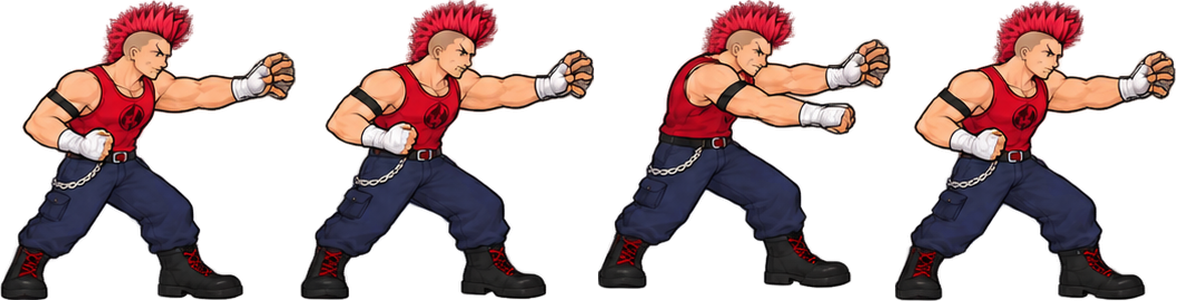
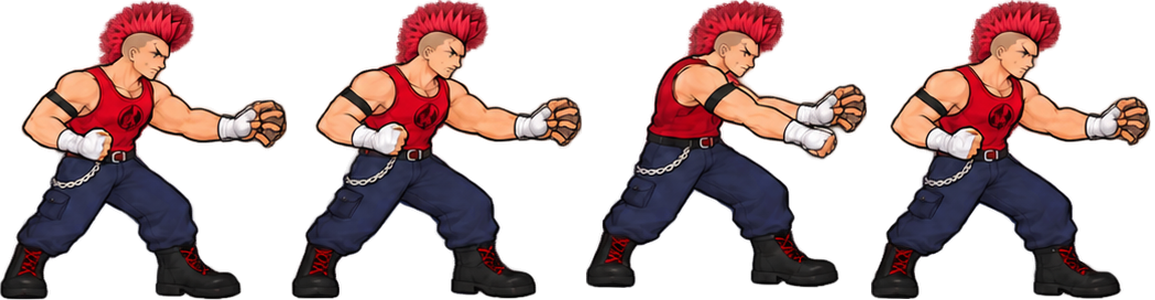
fix: keep front restraint hands off Aoi face

diff --git a/character-lab.html b/character-lab.html
@@ -1,4 +1,4 @@
-<!doctype html><html lang="ja"><meta charset="utf-8"><meta name="viewport" content="width=device-width,initial-scale=1"><title>ストリートエンジェル — キャラクター比較</title><style>body{background:#11101b;color:#eee;font:16px system-ui;margin:24px auto;max-width:1100px;padding:0 16px}h1{font-size:26px}p{color:#bcb8ca}button,select{font:inherit;background:#292537;color:#fff;border:1px solid #73677e;padding:12px;margin:4px;border-radius:6px}canvas{width:100%;background:#201c2d;border:1px solid #63576f}a{color:#ffcb64}</style><h1>葵と黒蛇会</h1><p>同じ足元の線で、体格と構えを比較。向きや動きを切り替えられます。</p><label>動き <select id="pose"><option value="idle">構え</option><option value="walk">歩き</option><option value="attack">攻撃</option><option value="restrain">拘束</option><option value="escape">拘束から脱出</option><option value="assist">追加拘束・腹パン4回</option><option value="hurt">被弾</option><option value="down">倒れる</option><option value="getup">起き上がる</option><option value="rush">ボス：突進</option><option value="slam">ボス：叩きつけ</option></select></label><button id="flip">向きを変える</button><button id="play">停止</button><button id="step">少し進める</button><canvas id="lineup" width="1100" height="470" aria-label="キャラクター5人の比較"></canvas><p>葵：軽快な連打 ／ チンピラ：前のめりの拳 ／ ヤンキー：間合いの長い蹴り ／ 大男：重い一撃 ／ 剛田：長ラン姿の突進・叩きつけ</p><a href="street-angel.html">ゲームへ</a><script src="assets/characters/aoi_assist_v1.js"></script><script src="assets/characters/thug_assist_v1.js"></script><script src="assets/characters/yankee_assist_v1.js"></script><script src="assets/characters/brute_assist_v1.js"></script><script src="assets/characters/aoi_restraint_v3.js"></script><script src="assets/characters/thug_restraint_v2.js"></script><script src="assets/characters/yankee_restraint_v2.js?v=2"></script><script src="assets/characters/brute_restraint_v2.js"></script><script src="visual-style.js?v=2"></script><script src="assets/aoi_hit.js"></script><script src="character-motion.js?v=9"></script><script src="assets/br_walk.js?v=2"></script><script src="assets/br_cmb.js?v=2"></script><script src="assets/thug_walk.js"></script><script src="assets/yk_walk.js?v=2"></script><script src="assets/aoi_walk4.js"></script><script src="assets/characters/aoi_attack_v2.js"></script><script src="assets/characters/thug_combat_v2.js"></script><script src="assets/characters/yankee_combat_v2.js?v=2"></script><script src="assets/characters/boss_motion_v2.js"></script><script src="assets/characters/boss_combat_v2.js"></script><script>
+<!doctype html><html lang="ja"><meta charset="utf-8"><meta name="viewport" content="width=device-width,initial-scale=1"><title>ストリートエンジェル — キャラクター比較</title><style>body{background:#11101b;color:#eee;font:16px system-ui;margin:24px auto;max-width:1100px;padding:0 16px}h1{font-size:26px}p{color:#bcb8ca}button,select{font:inherit;background:#292537;color:#fff;border:1px solid #73677e;padding:12px;margin:4px;border-radius:6px}canvas{width:100%;background:#201c2d;border:1px solid #63576f}a{color:#ffcb64}</style><h1>葵と黒蛇会</h1><p>同じ足元の線で、体格と構えを比較。向きや動きを切り替えられます。</p><label>動き <select id="pose"><option value="idle">構え</option><option value="walk">歩き</option><option value="attack">攻撃</option><option value="restrain">拘束</option><option value="escape">拘束から脱出</option><option value="assist">追加拘束・腹パン4回</option><option value="hurt">被弾</option><option value="down">倒れる</option><option value="getup">起き上がる</option><option value="rush">ボス：突進</option><option value="slam">ボス：叩きつけ</option></select></label><button id="flip">向きを変える</button><button id="play">停止</button><button id="step">少し進める</button><canvas id="lineup" width="1100" height="470" aria-label="キャラクター5人の比較"></canvas><p>葵：軽快な連打 ／ チンピラ：前のめりの拳 ／ ヤンキー：間合いの長い蹴り ／ 大男：重い一撃 ／ 剛田：長ラン姿の突進・叩きつけ</p><a href="street-angel.html">ゲームへ</a><script src="assets/characters/aoi_assist_v1.js"></script><script src="assets/characters/thug_assist_v1.js?v=2"></script><script src="assets/characters/yankee_assist_v1.js?v=2"></script><script src="assets/characters/brute_assist_v1.js"></script><script src="assets/characters/aoi_restraint_v3.js"></script><script src="assets/characters/thug_restraint_v2.js"></script><script src="assets/characters/yankee_restraint_v2.js?v=2"></script><script src="assets/characters/brute_restraint_v2.js"></script><script src="visual-style.js?v=2"></script><script src="assets/aoi_hit.js"></script><script src="character-motion.js?v=9"></script><script src="assets/br_walk.js?v=2"></script><script src="assets/br_cmb.js?v=2"></script><script src="assets/thug_walk.js"></script><script src="assets/yk_walk.js?v=2"></script><script src="assets/aoi_walk4.js"></script><script src="assets/characters/aoi_attack_v2.js"></script><script src="assets/characters/thug_combat_v2.js"></script><script src="assets/characters/yankee_combat_v2.js?v=2"></script><script src="assets/characters/boss_motion_v2.js"></script><script src="assets/characters/boss_combat_v2.js"></script><script>
 const c=document.getElementById('lineup'),g=c.getContext('2d'),select=document.getElementById('pose');
 const defs=[
  ['aoi','葵',1,1,['aoi_walk4','characters/aoi_attack_v2','aoi_hit'],['SPR_WALK4','SPR_AOI_ATK_V2','SPR_HIT'],[0,1,2,3,4,6,8,9]],
@@ -7,7 +7,7 @@ const defs=[
  ['brute','大男',1.12,1,['br_walk','br_cmb'],['SPR_BRW','SPR_BRC'],[0,1,3,5,6,7,9]],
  ['boss','剛田',1.28,1,['characters/boss_motion_v2','characters/boss_combat_v2'],['SPR_BOSSM_V2','SPR_BOSSC_V2'],[0,1,2,3]],
 ];
-for(const d of defs){if(d[0]==='boss')continue;d[4].push('characters/'+d[0]+'_restraint_'+(d[0]==='aoi'?'v3':'v2'));d[5].push('SPR_'+d[0].toUpperCase()+'_RESTRAINT');d[4].push('characters/'+d[0]+'_assist_v1');d[5].push('SPR_'+d[0].toUpperCase()+'_ASSIST')}let frame=0,playing=true,face=1;const imgs=defs.map((d,n)=>d[4].map((src,sheet)=>{const im=new Image();im.onload=()=>{if(d[0]!=='yankee')return;const c=document.createElement('canvas');c.width=im.naturalWidth;c.height=im.naturalHeight;const ctx=c.getContext('2d');ctx.drawImage(im,0,0);const p=ctx.getImageData(0,0,c.width,c.height);shiftClothingPixels(p.data,'yankee',0);ctx.putImageData(p,0,0);imgs[n][sheet]=c};im.src='assets/'+src+'.png'+(d[0]==='yankee'?'?v=2':'');return im}));
+for(const d of defs){if(d[0]==='boss')continue;d[4].push('characters/'+d[0]+'_restraint_'+(d[0]==='aoi'?'v3':'v2'));d[5].push('SPR_'+d[0].toUpperCase()+'_RESTRAINT');d[4].push('characters/'+d[0]+'_assist_v1');d[5].push('SPR_'+d[0].toUpperCase()+'_ASSIST')}let frame=0,playing=true,face=1;const imgs=defs.map((d,n)=>d[4].map((src,sheet)=>{const im=new Image();im.onload=()=>{if(d[0]!=='yankee')return;const c=document.createElement('canvas');c.width=im.naturalWidth;c.height=im.naturalHeight;const ctx=c.getContext('2d');ctx.drawImage(im,0,0);const p=ctx.getImageData(0,0,c.width,c.height);shiftClothingPixels(p.data,'yankee',0);ctx.putImageData(p,0,0);imgs[n][sheet]=c};im.src='assets/'+src+'.png'+(src.includes('_assist_')?'?v=2':d[0]==='yankee'?'?v=2':'');return im}));
 function render(){g.clearRect(0,0,c.width,c.height);g.fillStyle='#ffcb64';g.fillRect(20,340,1060,1);g.font='bold 22px system-ui';g.textAlign='center';
  defs.forEach((d,n)=>{const [key,label,scale,k,,data,walk]=d;const x=110+n*220,mode=select.value;let sheet=1,i=0;const t=frame%(mode==='assist'?ASSIST_TIMING.end:54);
  if(mode==='assist'&&key!=='boss'){sheet=data.length-1;i=assistFrame(key==='aoi'?{state:'restrained',assistedBy:{t}}:{state:'assisting',t})}

diff --git a/street-angel.html b/street-angel.html
@@ -7,8 +7,8 @@
 <script src="character-motion.js?v=9"></script>
 <script src="enemy-restraint.js?v=7"></script>
 <script src="assets/characters/aoi_assist_v1.js"></script>
-<script src="assets/characters/thug_assist_v1.js"></script>
-<script src="assets/characters/yankee_assist_v1.js"></script>
+<script src="assets/characters/thug_assist_v1.js?v=2"></script>
+<script src="assets/characters/yankee_assist_v1.js?v=2"></script>
 <script src="assets/characters/brute_assist_v1.js"></script>
 <script src="assets/characters/aoi_restraint_v3.js"></script>
 <script src="assets/characters/thug_restraint_v2.js"></script>
@@ -541,12 +541,12 @@ for(const key in ESET){const S=ESET[key];S.palettes={};S.files.forEach((f,n)=>{c
   }
   if(++S.loaded===2)S.ready=S.data.every(d=>!!window[d]);
 };im.src='assets/'+f+'.png'+(key==='yankee'?'?v=2':'');S.img[n]=im})}
-function blit(e,F,img,i,vf,k,region){
+function blit(e,F,img,i,vf,k,headOnly=false){
   const f=F[i],s=.5*e.scale*(k||1);
   g.save();
   if(e.flash>0&&g.filter!==undefined)g.filter='brightness(1.9)';
   g.translate(Math.round((e.x-cam)*2)/2,Math.round((e.y-e.z)*2)/2);g.scale(vf*(CHARACTER_PROFILES[e.styKey]?.width||1),characterBreath(e.styKey,e.at,e.state));
-  if(region){g.beginPath();g.rect((region[0]-f.ax)*s,(region[1]-f.ay)*s,region[2]*s,region[3]*s);g.clip()}
+  if(headOnly){g.beginPath();g.rect(-f.ax*s,-f.ay*s,f.w*s,94*s);g.clip()}
   g.drawImage(img,f.x,f.y,f.w,f.h,-f.ax*s,-(f.ay!=null?f.ay:f.h)*s,f.w*s,f.h*s);
   g.restore();g.filter='none';
 }
@@ -572,7 +572,7 @@ for(const kind of ['aoi','thug','yankee','brute']){
       shiftClothingPixels(pixels.data,kind,variant);ctx.putImageData(pixels,0,0);assist.palettes.push(c);
     }
   };
-  assist.img.src='assets/characters/'+kind+'_assist_v1.png';ASSIST_SPRITES[kind]=assist;
+  assist.img.src='assets/characters/'+kind+'_assist_v1.png?v=2';ASSIST_SPRITES[kind]=assist;
   const entry={img:new Image(),frames:window['SPR_'+kind.toUpperCase()+'_RESTRAINT']?.frames};
   entry.img.onload=()=>{
     if(kind!=='yankee'&&kind!=='thug')return;
@@ -585,16 +585,14 @@ for(const kind of ['aoi','thug','yankee','brute']){
   };
   entry.img.src='assets/characters/'+kind+'_restraint_'+(kind==='aoi'?'v3':'v2')+'.png'+(kind==='yankee'?'?v=2':'');RESTRAINT_SPRITES[kind]=entry;
 }
-function drawRestraint(e,handsOnly=false){
+function drawRestraint(e,headOnly=false){
   const assist=assistFrame(e),i=assist!=null?assist:restraintFrame(e),S=assist!=null?ASSIST_SPRITES[e.styKey]:RESTRAINT_SPRITES[e.styKey];
   if(i==null||!S?.frames||!S.img.complete||!S.img.naturalWidth)return false;
   // Tiny regular tremors suggest struggling without tilting the whole fighter.
   const sway=restraintSway(e);
   g.save();
   if(sway)g.translate(sway*e.scale,0);
-  // The rear wrists stay visible above overlapping enemy hands, in either facing.
-  const hands=handsOnly?(assist===2?[39,81,38,40]:[44,95,43,42]):null;
-  blit(e,S.frames,S.palettes?S.palettes[e.variant||0]:S.img,i,e.face,e.styKey==='yankee'?.88:1,hands);
+  blit(e,S.frames,S.palettes?S.palettes[e.variant||0]:S.img,i,e.face,e.styKey==='yankee'?.88:1,headOnly);
   g.restore();return true;
 }
 const loadT0=performance.now();
@@ -608,7 +606,8 @@ function drawCharacters(list){
     if(hasSprite(e))e.styKey==='aoi'?drawSprite(e):drawEnemy(e);
     else drawPerson(e);
   }
-  for(const e of list)if(e.styKey==='aoi'&&e.state==='restrained')drawRestraint(e,true);
+  // The supporting arm passes behind Aoi's head, leaving her face unobscured.
+  for(const e of list)if(e.styKey==='aoi'&&e.state==='restrained'&&e.assistedBy)drawRestraint(e,true);
   list.forEach(warn);
 }
 

diff --git a/assets/characters/yankee_assist_v1.js b/assets/characters/yankee_assist_v1.js
@@ -1,1 +1,1 @@
-window.SPR_YANKEE_ASSIST={"frames": [{"x": 0, "y": 0, "w": 304, "h": 300, "ax": 134.65, "ay": 300, "sourceBounds": [49, 694, 306, 948]}, {"x": 308, "y": 0, "w": 301, "h": 300, "ax": 131.69, "ay": 300, "sourceBounds": [364, 694, 619, 948]}, {"x": 613, "y": 0, "w": 315, "h": 295, "ax": 137.01, "ay": 295, "sourceBounds": [652, 698, 919, 948]}, {"x": 932, "y": 0, "w": 296, "h": 300, "ax": 135.83, "ay": 300, "sourceBounds": [974, 694, 1225, 948]}]};
+window.SPR_YANKEE_ASSIST={"frames": [{"x": 0, "y": 0, "w": 305, "h": 300, "ax": 137.01, "ay": 300, "sourceBounds": [48, 695, 306, 949]}, {"x": 309, "y": 0, "w": 302, "h": 301, "ax": 134.06, "ay": 301, "sourceBounds": [363, 694, 619, 949]}, {"x": 615, "y": 0, "w": 307, "h": 298, "ax": 137.6, "ay": 298, "sourceBounds": [651, 698, 911, 950]}, {"x": 926, "y": 0, "w": 299, "h": 301, "ax": 138.19, "ay": 301, "sourceBounds": [972, 695, 1225, 950]}]};

diff --git a/assets/characters/thug_assist_v1.js b/assets/characters/thug_assist_v1.js
@@ -1,1 +1,1 @@
-window.SPR_THUG_ASSIST={"frames": [{"x": 0, "y": 0, "w": 296, "h": 300, "ax": 121.56, "ay": 300, "sourceBounds": [46, 390, 311, 659]}, {"x": 300, "y": 0, "w": 294, "h": 300, "ax": 123.23, "ay": 300, "sourceBounds": [355, 391, 619, 660]}, {"x": 598, "y": 0, "w": 293, "h": 289, "ax": 126.02, "ay": 289, "sourceBounds": [653, 401, 916, 660]}, {"x": 895, "y": 0, "w": 281, "h": 301, "ax": 124.35, "ay": 301, "sourceBounds": [973, 390, 1225, 660]}]};
+window.SPR_THUG_ASSIST={"frames": [{"x": 0, "y": 0, "w": 287, "h": 300, "ax": 119.67, "ay": 300, "sourceBounds": [46, 389, 306, 661]}, {"x": 291, "y": 0, "w": 291, "h": 299, "ax": 122.43, "ay": 299, "sourceBounds": [355, 390, 619, 661]}, {"x": 586, "y": 0, "w": 281, "h": 288, "ax": 125.74, "ay": 288, "sourceBounds": [652, 400, 907, 661]}, {"x": 871, "y": 0, "w": 280, "h": 299, "ax": 124.63, "ay": 299, "sourceBounds": [972, 390, 1226, 661]}]};

diff --git a/tools/pack_assist_sheet.py b/tools/pack_assist_sheet.py
@@ -13,8 +13,14 @@ def main():
     poses=extract_poses(Image.open(source),4,4,'red')
     report=[]
     for row,(kind,height) in enumerate([('aoi',264),('thug',300),('yankee',300),('brute',331)]):
-        character_source=ROOT/'source_art/character-v2/brute-assist-source.png' if kind=='brute' else source
-        character_poses=extract_poses(Image.open(character_source),4,1,'red') if kind=='brute' else poses[row*4:row*4+4]
+        character_source=source
+        character_poses=poses[row*4:row*4+4]
+        if kind=='brute':
+            character_source=ROOT/'source_art/character-v2/brute-assist-source.png'
+            character_poses=extract_poses(Image.open(character_source),4,1,'red')
+        elif kind in ('thug','yankee'):
+            character_source=ROOT/'source_art/character-v2/assist-shoulder-source.png'
+            character_poses=extract_poses(Image.open(character_source),4,4,'red')[row*4:row*4+4]
         group=[]
         for im,_,bounds in character_poses:
             ys,xs=np.where(np.array(im)[...,3]>100)

diff --git a/docs/assist-combo.md b/docs/assist-combo.md
@@ -28,10 +28,15 @@ Node36件・Python9件が成功。正面からのみの追加拘束、1体制限
 ![デカブツの低いパンチ](character-review/assist-brute.jpg)
 ![専用素材の比較](character-review/assist-lineup.jpg)
 
-## 手元の重なり修正
+## 顔に重なる押さえ手の修正
 
-葵の後ろ手（赤いグローブと手首）を敵より手前に重ねて描き直し、敵の手で消えないようにした。画像そのものは変更せず、現在のポーズ・向き・基準点・もがきに一致する範囲だけ再描画する。左右と通常の後ろ手拘束、腹への被弾姿勢で確認した。
+正面の敵が伸ばす押さえ手が葵の顔に被っていた。チンピラとヤンキーの4ポーズずつの押さえ腕を下げ、さらに敵の押さえ腕が葵の頭の後ろを通る描画にした。前かがみの被弾姿勢も顔を見せる。前回の手首を手前に描く処理は撤去した。重い打撃の間隔と合計ダメージは維持。
 
-![右向き](character-review/assist-hands-heavy-right.jpg)
-![左向き](character-review/assist-hands-heavy-left.jpg)
-![後ろ手](character-review/rear-hands-visible.jpg)
+内蔵ImageGenで既存原本を編集し、チンピラ・ヤンキーの行だけ採用。葵・デカブツの素材は既存のまま。原本は [assist-shoulder-source.png](../source_art/character-v2/assist-shoulder-source.png)、正確な編集指示は [assist-shoulder-provenance.json](../source_art/character-v2/assist-shoulder-provenance.json)。実行時は既存の `thug_assist_v1.png` と `yankee_assist_v1.png` を更新し、画像とフレーム情報にキャッシュ更新番号を付けた。
+
+実ブラウザーでヤンキーの左右・チンピラ・デカブツの被弾姿勢を確認。Node36件・Python9件が通過。
+
+![ヤンキー右向き](character-review/assist-face-clear-right.jpg)
+![ヤンキー左向き](character-review/assist-face-clear-left.jpg)
+![チンピラ](character-review/assist-face-clear-thug.jpg)
+![デカブツ](character-review/assist-face-clear-brute.jpg)
